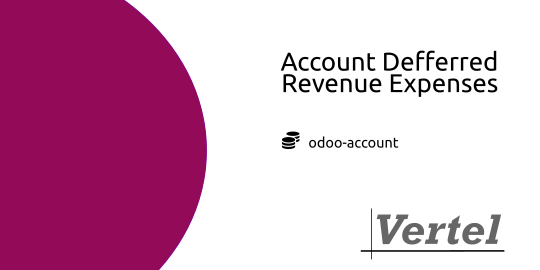
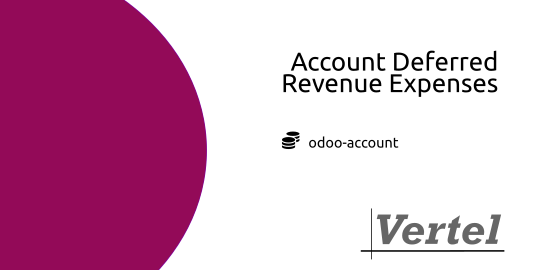
account_deferred_revenue_expenses: spell checking in an image...

Changed region(s): [[0.5037, 0.1778, 0.8, 0.2667]]

diff --git a/account_deferred_revenue_expenses/models/account_move.py b/account_deferred_revenue_expenses/models/account_move.py
@@ -25,7 +25,7 @@ class AccountMove(models.Model):
     deferred_expense_count = fields.Integer(compute="_compute_asset_count")
 
     def _compute_asset_count(self):
-        super(AccountMoveLine, self)._compute_asset_count()
+        super(AccountMove, self)._compute_asset_count()
 
         for move in self:
             move.asset_count =len(move.invoice_line_ids.filtered(lambda l: l.asset_profile_id.id != False) )
